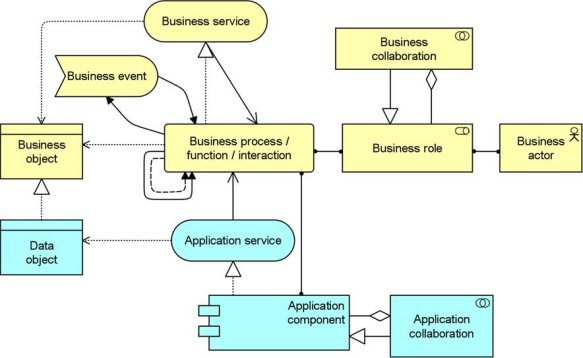
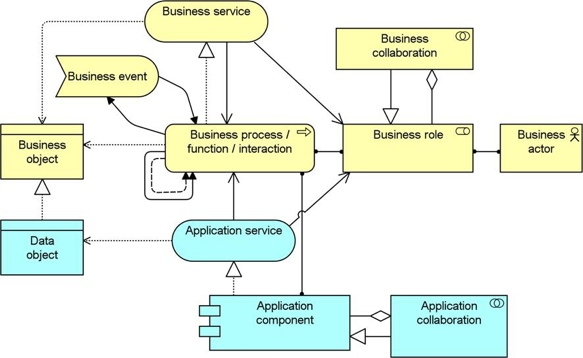
[ArchiMate 2.1] Update Hints images of some Viewpoints

diff --git a/uk.ac.bolton.archimate.help/hints/viewpoint_businessprocesscoop.html b/uk.ac.bolton.archimate.help/hints/viewpoint_businessprocesscoop.html
@@ -39,7 +39,7 @@
       </tr>
     </table>
     <p><strong>Concepts and Relations</strong></p>
-    <p><img src="img/vp_busprocesscoop.jpg" width="592" height="280"> </p>
+    <p><img src="img/vp_busprocesscoop.png" width="592" height="299"> </p>
     <p>&nbsp;</p>
 </body>
 </html>

diff --git a/uk.ac.bolton.archimate.help/hints/viewpoint_businessprocess.html b/uk.ac.bolton.archimate.help/hints/viewpoint_businessprocess.html
@@ -37,7 +37,7 @@
       </tr>
     </table>
     <p><strong>Concepts and Relations</strong></p>
-    <p><img src="img/vp_busprocess.jpg" width="583" height="277"> </p>
+    <p><img src="img/vp_busprocess.png" width="583" height="294"> </p>
     <p>&nbsp;</p>
 </body>
 </html>

diff --git a/uk.ac.bolton.archimate.help/hints/viewpoint_actorcooperation.html b/uk.ac.bolton.archimate.help/hints/viewpoint_actorcooperation.html
@@ -33,7 +33,7 @@
       </tr>
     </table>
     <p><strong>Concepts and Relations</strong></p>
-    <p><img src="img/vp_actorcoop.jpg" width="560" height="229"> </p>
+    <p><img src="img/vp_actorcoop.png" width="560" height="229"> </p>
     <p>&nbsp;</p>
 </body>
 </html>
